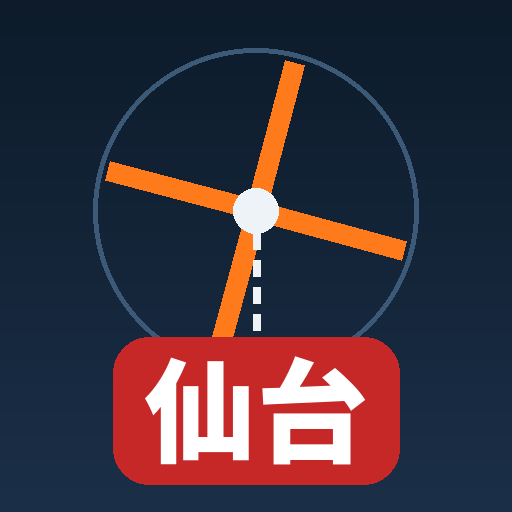
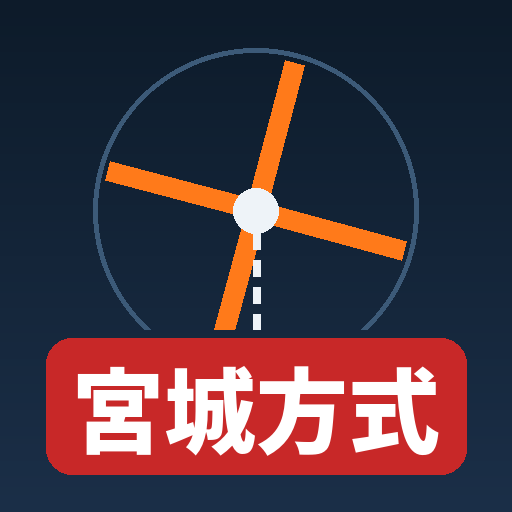
仙台版のアイコンを「宮城方式」に
Claude-Session: https://claude.ai/code/session_01H5Czvo3x25gpsbXJBGMZUv

Changed region(s): [[0.0625, 0.625, 0.9375, 0.9688], [0.6875, 0.625, 0.7188, 0.6562], [0.2812, 0.625, 0.3125, 0.6562]]

diff --git a/sendai/sw.js b/sendai/sw.js
@@ -1,6 +1,6 @@
 // HOIST OPS 仙台版 service worker: keeps the app itself available offline.
 // Map tiles are NOT cached here (the app's own "地図を端末に保存" handles that on request).
-const VERSION = 'hoistops-sendai-20261021102016';
+const VERSION = 'hoistops-sendai-20261021105437';
 const APP = ['./', './index.html', './manifest.webmanifest', './icon-192.png', './icon-512.png', './icon-maskable-512.png', './apple-touch-icon.png'];
 self.addEventListener('install', e => {
   e.waitUntil(caches.open(VERSION).then(c => c.addAll(APP)).then(() => self.skipWaiting()));
